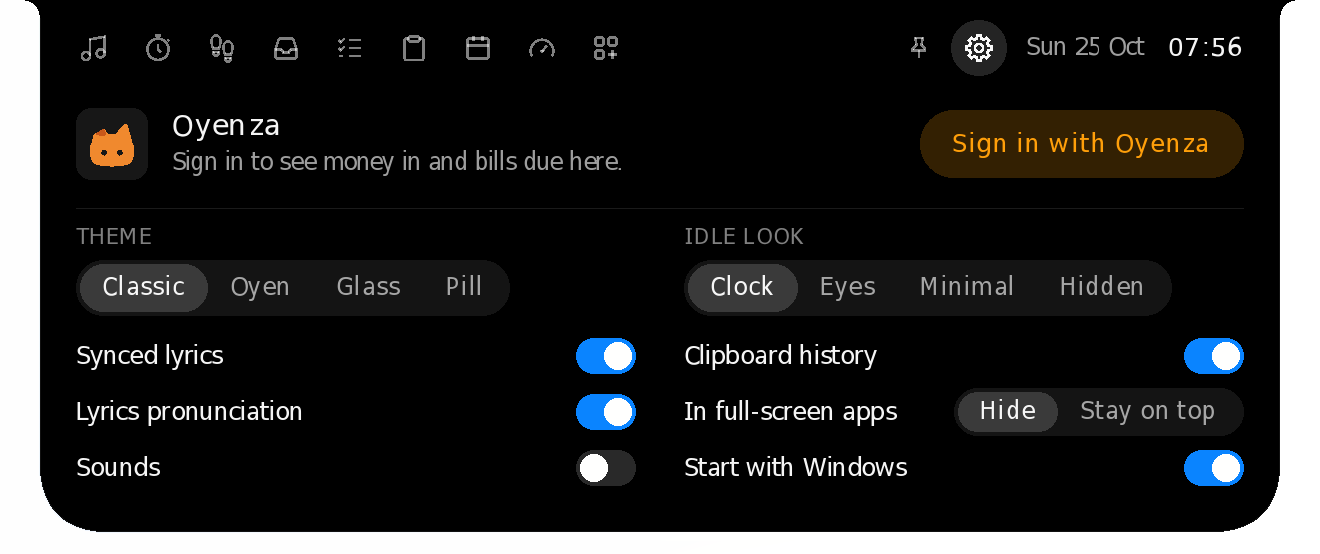
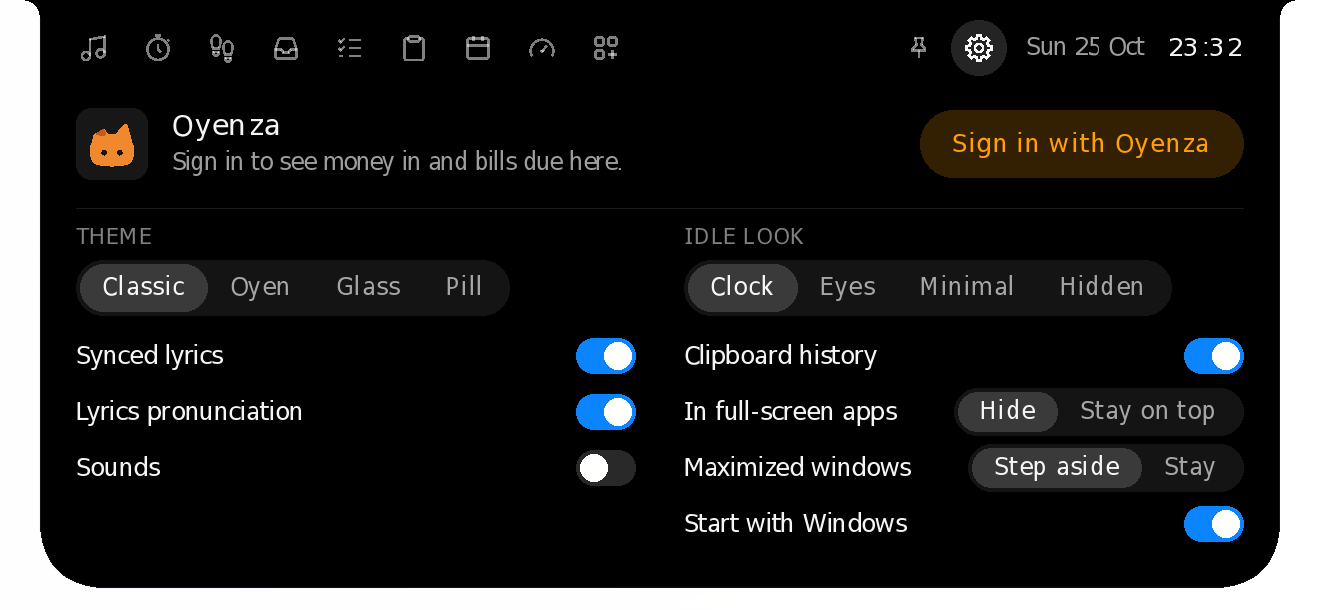
Release 0.2.4 (#102)
The version in the same 7 files as Release 0.2.3 (ci.yml, Cargo.toml,
Cargo.lock, poni.manifest, poni.rc, poni.iss, poni.nsi), the release text
in docs/release-notes/v0.2.4.md, and the website update.

0.2.4 ships what main gained since v0.2.3: Step aside (#93). Over a
maximized browser, or any window at the top edge, the island steps aside
so the tabs show and take clicks; Over maximized windows › Stay keeps
the old behaviour. Windows only.

Website: "New in 0.2.4" (two tiles; 0.2.3's and 0.2.1's bands stay below
it), the hero's line, Stays on top (its line, the sidebar keywords and
the Step aside paragraph in its sheet), the Settings pictures retaken
from a 200 % self-test of this version in Classic and Oyen (the new
Maximized windows row; 660 x 305 now), their alt text, and the fallback
version 0.2.4.

diff --git a/site/index.html b/site/index.html
@@ -632,7 +632,7 @@ dialog.more-sheet::backdrop { background: rgba(0, 0, 0, 0.42); -webkit-backdrop-
     <div class="side-sec">
       <p class="side-group">Overview</p>
       <a class="side-item" href="#top" data-k="home start download hero notch island"><i class="ic" style="--c:#1d1d1f"><svg class="ico"><use href="#i-screen"/></svg></i><span>A living notch</span></a>
-      <a class="side-item" href="#new" data-k="new release 0.2.3 latest changes sing along romaji mac prayer"><i class="ic" style="--c:#bf4800"><svg class="ico"><use href="#i-spark"/></svg></i><span>New in 0.2.3</span></a>
+      <a class="side-item" href="#new" data-k="new release 0.2.4 latest changes step aside maximized browser tabs sing along romaji mac prayer"><i class="ic" style="--c:#bf4800"><svg class="ico"><use href="#i-spark"/></svg></i><span>New in 0.2.4</span></a>
       <a class="side-item" href="#highlights" data-k="best gallery overview"><i class="ic" style="--c:#ff9f0a"><svg class="ico"><use href="#i-spark"/></svg></i><span>Highlights</span></a>
       <a class="side-item" href="#features" data-k="rest idle music timer volume charging headphones bluetooth money clock eyes prayer countdown"><i class="ic" style="--c:#636366"><svg class="ico"><use href="#i-island"/></svg></i><span>While it rests</span></a>
     </div>
@@ -657,7 +657,7 @@ dialog.more-sheet::backdrop { background: rgba(0, 0, 0, 0.42); -webkit-backdrop-
       <a class="side-item" href="#addons" data-k="add-ons addons download extras plugins"><i class="ic" style="--c:#ff9f0a"><svg class="ico"><use href="#i-addons"/></svg></i><span>Add-ons</span></a>
       <a class="side-item" href="#script" data-k="script reader teleprompter prompter webcam camera read talk video new"><i class="ic" style="--c:#a2845e"><svg class="ico"><use href="#i-script"/></svg></i><span>Script reader</span><span class="tag">New</span></a>
       <a class="side-item" href="#games" data-k="games fps gpu cpu overlay gaming frames readout peeks"><i class="ic" style="--c:#ff375f"><svg class="ico"><use href="#i-game"/></svg></i><span>Show over games</span></a>
-      <a class="side-item" href="#on-top" data-k="full screen always on top stay hide"><i class="ic" style="--c:#32ade6"><svg class="ico"><use href="#i-layers"/></svg></i><span>Stays on top</span></a>
+      <a class="side-item" href="#on-top" data-k="full screen always on top stay hide step aside maximized browser tabs chrome"><i class="ic" style="--c:#32ade6"><svg class="ico"><use href="#i-layers"/></svg></i><span>Stays on top</span></a>
     </div>
     <div class="side-sec">
       <p class="side-group">Looks</p>
@@ -728,9 +728,9 @@ dialog.more-sheet::backdrop { background: rgba(0, 0, 0, 0.42); -webkit-backdrop-
           <div class="hero-copy">
             <h1 class="t-hero-eyebrow">Oyenza Studio</h1>
             <p class="t-hero">A living notch.</p>
-            <a class="t-avail" href="#new">New in 0.2.3: sing along to Japanese, Korean and Chinese songs, right on the island.</a>
+            <a class="t-avail" href="#new">New in 0.2.4: over a maximized browser, the island steps aside for your tabs.</a>
             <div class="buybox">
-              <div><b>Free for Windows and Mac</b><span class="fine">Open source · Windows <span data-release="size">2.5&nbsp;MB</span> · Mac <span data-release="mac-size">3.7&nbsp;MB</span> · <a class="notes" data-release="notes" href="https://github.com/lucacadalora/oyenza-studio/releases/latest">What's new in <span data-release="version">0.2.3</span></a></span></div>
+              <div><b>Free for Windows and Mac</b><span class="fine">Open source · Windows <span data-release="size">2.5&nbsp;MB</span> · Mac <span data-release="mac-size">3.7&nbsp;MB</span> · <a class="notes" data-release="notes" href="https://github.com/lucacadalora/oyenza-studio/releases/latest">What's new in <span data-release="version">0.2.4</span></a></span></div>
               <a class="btn dl-primary" href="https://github.com/lucacadalora/oyenza-studio/releases/latest/download/Oyenza-Studio-Setup.exe">Download</a>
             </div>
             <a class="link hero-other dl-other" data-release="mac-link" href="https://github.com/lucacadalora/oyenza-studio/releases/latest/download/Oyenza-Studio-Mac.dmg">Download for Mac</a>
@@ -749,7 +749,15 @@ dialog.more-sheet::backdrop { background: rgba(0, 0, 0, 0.42); -webkit-backdrop-
   </section>
 
   <section class="sec band" id="new" aria-labelledby="new-title">
-    <div class="content head rv"><h2 class="t-l" id="new-title">New in 0.2.3.</h2></div>
+    <div class="content head rv"><h2 class="t-l" id="new-title">New in 0.2.4.</h2></div>
+    <div class="content news two">
+      <a class="news-tile rv" href="#on-top"><p class="t-card">Step aside</p><p class="t-tile">Over a maximized browser, the island gets out of the way, so your tabs show and take clicks.</p></a>
+      <a class="news-tile rv" href="#on-top"><p class="t-card">Still one point away</p><p class="t-tile">Point at the top edge to open it. Or keep it over your tabs: Over maximized windows › Stay.</p></a>
+    </div>
+  </section>
+
+  <section class="sec band" aria-labelledby="new-023-title">
+    <div class="content head rv"><h2 class="t-l" id="new-023-title">New in 0.2.3.</h2></div>
     <div class="content news two">
       <a class="news-tile rv" href="#read-along"><p class="t-card">Sing along</p><p class="t-tile">Japanese, Korean and Chinese lines show their reading in Latin letters on the closed island, right under the line.</p></a>
       <a class="news-tile rv" href="#prayer"><p class="t-card">Prayer times on the Mac</p><p class="t-tile">Your kab/kota from Location Services, the adzan, and the countdown beside the notch.</p></a>
@@ -1035,8 +1043,8 @@ dialog.more-sheet::backdrop { background: rgba(0, 0, 0, 0.42); -webkit-backdrop-
       <div class="panel rv-zoom" data-scene="par" style="--band:28px">
         <div class="sky-layer"></div>
         <div class="isl">
-          <img class="look-classic" src="assets/shots/classic/page-settings.webp" alt="The Settings page: Sign in with Oyenza at the top, then the theme, the idle look, five switches and a Hide or Stay on top choice for full-screen apps" width="660" height="277" loading="lazy">
-          <img class="look-oyen" src="assets/shots/oyen/page-settings.webp" alt="The Settings page in the Oyen theme" width="660" height="277" loading="lazy">
+          <img class="look-classic" src="assets/shots/classic/page-settings.webp" alt="The Settings page: Sign in with Oyenza at the top, then the theme, the idle look, five switches, a Hide or Stay on top choice for full-screen apps and a Step aside or Stay choice for maximized windows" width="660" height="305" loading="lazy">
+          <img class="look-oyen" src="assets/shots/oyen/page-settings.webp" alt="The Settings page in the Oyen theme" width="660" height="305" loading="lazy">
         </div>
       </div>
     </div>
@@ -1177,14 +1185,14 @@ dialog.more-sheet::backdrop { background: rgba(0, 0, 0, 0.42); -webkit-backdrop-
       <div class="panel rv-zoom" data-scene="par" style="--band:28px">
         <div class="sky-layer"></div>
         <div class="isl">
-          <img class="look-classic" src="assets/shots/classic/page-settings-stay-on-top.webp" alt="The Settings page with In full-screen apps set to Stay on top" width="660" height="277" loading="lazy">
-          <img class="look-oyen" src="assets/shots/oyen/page-settings-stay-on-top.webp" alt="In full-screen apps set to Stay on top, in the Oyen theme" width="660" height="277" loading="lazy">
+          <img class="look-classic" src="assets/shots/classic/page-settings-stay-on-top.webp" alt="The Settings page with In full-screen apps set to Stay on top" width="660" height="305" loading="lazy">
+          <img class="look-oyen" src="assets/shots/oyen/page-settings-stay-on-top.webp" alt="In full-screen apps set to Stay on top, in the Oyen theme" width="660" height="305" loading="lazy">
         </div>
       </div>
       <div class="head rv">
         <p class="t-label">Stays on top</p>
         <h3 class="t-l" id="ontop-title">Above every window.</h3>
-        <p class="t-intro">In full-screen games and videos, <b>you choose</b>: hide it, or keep it on top.</p>
+        <p class="t-intro">In full-screen games and videos, <b>you choose</b>: hide it, or keep it on top. New in 0.2.4: over a maximized browser it steps aside, so your tabs show.</p>
       </div>
     </div>
   </section>
@@ -1539,6 +1547,7 @@ dialog.more-sheet::backdrop { background: rgba(0, 0, 0, 0.42); -webkit-backdrop-
     <p>Switch it on in System › Games, or right-click the island › In full-screen apps › Show FPS, GPU and CPU over games.</p>
     <p>Frames are counted the way Intel's PresentMon and Xbox Game Bar count them, from Windows' own log of each frame a game shows. Nothing is loaded into the game, so anti-cheat has nothing to see. DirectX 9 to 12, Vulkan and OpenGL. The first time, Windows asks once for an admin OK, as Game Bar's FPS counter does, and FPS shows from your next sign-in. Over a full-screen app, Glass draws smoked glass instead of copying the screen.</p>
     <p><b>Stays on top:</b> when another window covers the island, such as a browser left on top after full screen or an app set to stay on top, the island goes back on top. In full-screen games and videos you choose: right-click the island or open Settings, then In full-screen apps › Hide or Stay on top. Hide is the default. A game in exclusive full-screen mode still covers every window.</p>
+    <p><b>New in 0.2.4: it steps aside for your tabs.</b> Over a maximized browser, or any window whose top edge is at the top of the screen, such as one snapped to half of it, the island steps aside. The clock or the song waits out of the way, and only an invisible strip stays along the middle of the top edge, so the tabs show and take clicks. Point at the top edge to open the island; pop-ups, notices and a new song's title still show for a few seconds. To keep it over those windows, right-click it › Over maximized windows › Stay, or pick Stay next to Maximized windows in Settings. On a Mac the menu bar already keeps windows below the island.</p>
   </div>
 </dialog>
 <dialog class="more-sheet" id="m-oyen" aria-labelledby="m-oyen-t">

diff --git a/docs/release-notes/v0.2.4.md b/docs/release-notes/v0.2.4.md
@@ -1,0 +1,11 @@
+**Your browser's tabs stay visible.** Over a maximized browser, the island now steps aside instead of sitting on its tabs. The same goes for any window whose top edge is at the top of the screen, such as one snapped to half the screen. The clock or the song waits out of the way, and only an invisible strip stays along the middle of the top edge, so the tabs show and take clicks. Point at the top edge to open the island. The volume, battery and Bluetooth pop-ups, notices and a new song's title still show for a few seconds. To keep the island over those windows, right-click it › **Over maximized windows** › **Stay**, or pick **Stay** next to **Maximized windows** in Settings. This is Windows only: on a Mac the menu bar already keeps windows below the island.
+
+Everything new in 0.2.3 is here too: the reading in Latin letters under each sung line on the closed island, and Prayer times on the Mac. See the [0.2.3 notes](https://github.com/lucacadalora/oyenza-studio/releases/tag/v0.2.3).
+
+**Install:** download `Oyenza-Studio-Setup.exe` and run it. It installs just for you (no admin rights) and can start with Windows. Or unzip the portable zip and run `Poni\poni.exe`. Links to `Oyen-Poni-Setup.exe` keep working: every release carries that file too.
+
+**On a Mac:** open `Oyenza-Studio-Mac.dmg` and drag Oyenza Studio into Applications. It isn't signed with an Apple Developer ID yet, so the first time macOS warns you, click **Done**, then open **System Settings → Privacy & Security** and click **Open Anyway**.
+
+**Upgrading:** run the new installer. It upgrades in place and keeps your settings, data, add-ons and Oyenza sign-in.
+
+The build isn't code-signed yet, so Windows SmartScreen may say "Windows protected your PC". Click **More info → Run anyway**.
